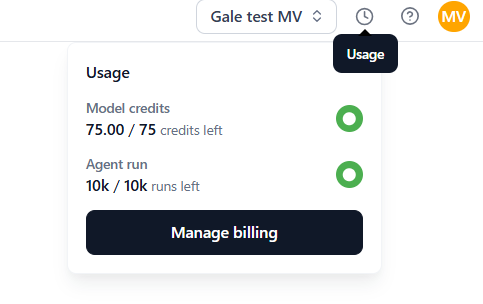
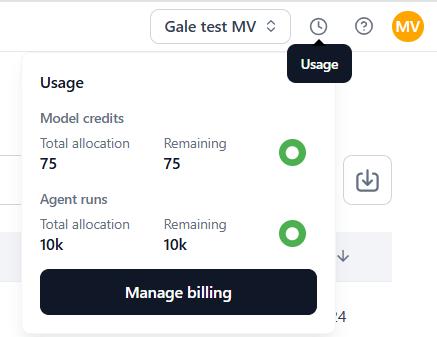
updates

diff --git a/docs/gale/models/open-source-models/importing-models.md b/docs/gale/models/open-source-models/importing-models.md
@@ -1,0 +1,112 @@
+# Importing a Model
+
+GALE enables users to import base and adapter model files from their local machines into the platform. For **base** models, users can directly upload model files and import them into the GALE system for further use. For **adapter** models, users must first select a compatible base model and then upload and import the adapter model file. Once imported, these models become available for deployment within the GALE platform.
+
+This process enables users to seamlessly integrate local models into GALE, ensuring compatibility and readiness for deployment. It facilitates efficient management and configuration,  just like other open-source models, and streamlines workflows within the platform.
+
+!!! note
+
+    **Base Model**: A base model is a pre-trained model that can be used for general tasks. It’s already trained on a large dataset and can be used as-is or fine-tuned for specific tasks.
+
+    **Adapter Model**: An adapter model is a smaller model that works with a base model to make it more suited for a specific task or dataset. It doesn’t need to retrain the entire base model but adjusts it for new purposes.
+
+
+### Best Practices
+
+1. **Ensure model compatibility**: When importing an adapter model, always verify that it is compatible with a supported base model. The system informs you that a base model is required, so ensure that you select a base model from the Kore-hosted list before proceeding with the adapter model upload.
+2. **Validate model files before importing**: Always check your model's file extension and format before uploading. The system validates the model file during the import process, so uploading a valid file upfront will prevent unnecessary errors and delays.
+3. **One model at a time**: To avoid conflicts or issues with multiple simultaneous imports, import one model file at a time. Ensure that each model (whether base or adapter) is fully imported and validated before proceeding to the next.
+4. **Monitor import and validation status**: Track the model's status during the import and validation process. If an error occurs, the system provides details about the failure. Use this information to address issues quickly, either by correcting the file or re-uploading a new one.
+5. **Prepare for deployment after validation**: Once the model is successfully imported and validated, it is marked as ‘Ready to deploy’. Before deploying, ensure all necessary configurations, such as description, tags, and API keys, are set up. Also, familiarize yourself with the deployment process to ensure a smooth transition to production.
+6. **Avoid interruptions during import:** To ensure a smooth import process, refrain from switching accounts or refreshing the page, as these actions may interrupt the import.
+
+
+### Prerequisites
+
+* The user must be logged in to GALE and have the necessary permissions to import models.
+* The model file to be imported must be available on the user’s local machine.
+
+
+# Importing Base Models into GALE
+
+**Steps to import a base model into GALE:**
+
+1. Go to **Models** > **Open-source models** and click the **Import model** button.
+2. On the **Import model** dialog, choose the **Base Model** tab.
+
+<img src="../images/base_model.png" alt="Base Model" title="Base Model" style="border: 1px solid gray; zoom:80%;">
+
+!!! note
+
+    Click ‘Instructions’ to view the detailed guidelines for the supported format and the necessary files to include in the zip folder for both base and adapter models.
+
+3. **Upload the model file**: In the **Import base model file** section, drag and drop the model file into the designated upload area, or use the **Upload file** link to browse and select the file from your local machine. Ensure the file extension matches the supported model formats.
+4. **File Validation**: The system validates the file’s extension.
+    * If the file is valid, the file name appears and the **Import** button is enabled.
+    * If the file fails validation, an error message appears detailing why the file is invalid. You must correct the file before proceeding.
+5. **Import the model**: Click the **Import** button to start the import process.
+
+    The system displays the model name in the Open-Source Models dashboard with the following status updates as the import progresses:
+
+    * **Importing**: When the file is being uploaded.
+    * **Validating**: When the file is being validated.
+    * **Import Failed**: If any errors occur during the import or validation process, the system displays the error details. You can choose to fix the issue and re-import the model or cancel the process.
+    * **Ready to Deploy**: When the model is successfully imported and validated.
+6. Once the model is ready for deployment, you can click the row in the dashboard and manage the model’s deployment settings in the following sections:
+    * **Configurations**: Edit the model’s description and tags.
+    * **API keys**: Configure the API key and deployment settings.
+    * **Model Endpoint**: Start the deployment.
+
+
+# Importing Adapter Models into GALE
+
+**Steps to import an adapter model into GALE:**
+
+1. Go to **Models** > **Open-source models** and click the **Import model** button.
+2. On the **Import model** dialog, choose the **Adapter Model** tab.
+
+<img src="../images/adapter_model.png" alt="Adapter Model" title="Adapter Model" style="border: 1px solid gray; zoom:80%;">
+ 
+!!! note
+
+    Click ‘Instructions’ to view the detailed guidelines for the supported format and the necessary files to include in the zip folder for both base and adapter models.
+
+3. **Select a base model**: Browse through the list of available base models and choose one that supports the adapter model you're importing. Once selected, the base model is associated with the adapter model.
+
+<img src="../images/adapter_model_details.png" alt="Adapter Model" title="Adapter Model" style="border: 1px solid gray; zoom:80%;">
+
+!!! note
+
+    The system alerts you that the adapter model needs a base model to work, and you must choose one from the supported models in the models hub.
+
+4. **Upload the model file**: In the **Import base model file** section, drag and drop the model file into the designated upload area, or use the **Upload file** link to browse and select the file from your local machine. Ensure the file extension matches the supported model formats.
+5. **File Validation**: The system validates the file’s extension.
+    * If the file is valid, the file name appears and the **Import** button is enabled.
+    * If the file fails validation, an error message appears detailing why the file is invalid. You must correct the file before proceeding. 
+6. **Import the model**: After the adapter model file is validated and the base model is selected, click the **Import** button to start the import process. The system displays the model name in the Open-Source Models dashboard with the following status updates as the import progresses:
+    * **Importing:** When the file is being uploaded.
+    * **Validating**: When the file is being validated.
+    * **Import Failed**: If any errors occur during the import or validation process, the system displays the error details. You can fix the issue, re-import the model, or cancel the process.
+    * **Ready to Deploy**: When the model is successfully imported and validated.
+7. Once the model is ready for deployment, you can click the row in the dashboard and manage the model’s deployment settings in the following sections:
+    * **Configurations**: Edit the model’s description and tags.
+    * **API keys**: Configure the API key and deployment settings.
+    * **Model Endpoint**: Start the deployment.
+
+
+### Key Considerations
+
+* **Model details**: Once the model is ready, you can modify its description and tags. However, the model name remains uneditable, as it is derived from the file name.
+* **Deployment and management**: All actions related to deployment, re-deployment, and failure management will follow the same process as existing open-source models. After deployment, the model’s status, re-deployment history, API endpoint, and related toasts or email notifications will be the same as those for other open-source models.
+* **Manage deletion**:
+    * If the model has not been deployed or while the model is being imported, you can delete it using the Delete option from the three-dot menu on the dashboard.
+    * If the model is deployed, you can trigger re-deployment or view the deployment history.
+* **Errors during model import**: If any errors occur during model import, such as invalid file formats, upload failures, extraction issues, or compatibility problems, refer to the error message displayed by the system for guidance on resolving the issue.
+* **Further fine-tuning:** Imported models can be fine-tuned further and deployed as individual units. During fine-tuning, the imported models are included in the Models hub menu in the Base model section. \
+
+
+!!! note
+
+    The deployconfig.json file is added to the model export. If the same model is later imported into GALE, the deployment details from this file will be automatically retrieved and pre-filled in the deployment wizard. This includes previous deployment settings, such as model names, descriptions, tags, hyperparameters, hardware configurations, and optimization techniques.
+
+

diff --git a/docs/gale/release-notes/recent-updates.md b/docs/gale/release-notes/recent-updates.md
@@ -2,6 +2,38 @@
 
 This document provides information on the feature updates and enhancements introduced in the recent GALE releases.
 
+## v1.0.6 December 12, 2024
+
+<u> Minor Release </u>
+
+This update includes new features, improvements, and bug fixes, summarized below.
+
+**New Features**
+
+* (TEST)Improve prompt API endpoint: The updated instructions in the prompt API endpoint help users properly set up and use the endpoint.
+* Improved UI labels for credits and runs.
+* Show variables in an expanded state by default in Prompt Studio.
+* Show deployment history after the first model deployment attempt, regardless of the deployment status.
+
+**Feature Enhancements**
+
+* (TEST)Improve prompt API endpoint: The updated instructions in the prompt API endpoint help users properly set up and use the endpoint.
+* Improved UI labels for credits and runs.
+* Show variables in an expanded state by default in Prompt Studio.
+* Show deployment history after the first model deployment attempt, regardless of the deployment status.
+
+**Security Enhancements**
+
+* (TEST)Improve prompt API endpoint: The updated instructions in the prompt API endpoint help users properly set up and use the endpoint.
+* Improved UI labels for credits and runs.
+* Show variables in an expanded state by default in Prompt Studio.
+* Show deployment history after the first model deployment attempt, regardless of the deployment status.
+
+
+
+<hr>
+
+
 ## v1.0.5 November 20, 2024
 
 <u> Minor Release </u>

diff --git a/docs/gale/models/open-source-models/open-source-summary.md b/docs/gale/models/open-source-models/open-source-summary.md
@@ -1,0 +1,22 @@
+# Open-source Models Overview
+
+The Open-source models tab displays the following details:
+
+* **Model Name:** The name of the model. For imported models, the name is derived from the uploaded zip filename.
+* **Status:** The current status of the model:
+    * **Importing:** When the file is being uploaded.
+    * **Validating:** When the file is being validated.
+    * **Import Failed**: If any errors occur during the import or validation process, the system displays the error details. You can fix the issue, re-import the model, or cancel the process.
+    * **Ready to Deploy**: When the model is successfully imported and validated.
+* **Tags:** The labels to help quickly search for models.
+* **Source:** The source of the model. For example, ’File’ indicates that the model was uploaded from your local machine.
+* **Added by:** The user who imported the model.
+* **Updated on:** The date when the model was last updated.
+
+<img src="../images/open_source_model_tab_details.png" alt="Open-source models table" title="Open-source models table" style="border: 1px solid gray; zoom:80%;">
+
+Clicking each row in the list opens the model settings page with the following sections:
+
+* **Model Endpoint**: Start the deployment.
+* **API keys**: Configure the API key and deployment settings.
+* **Configurations**: Add a description and tags.
